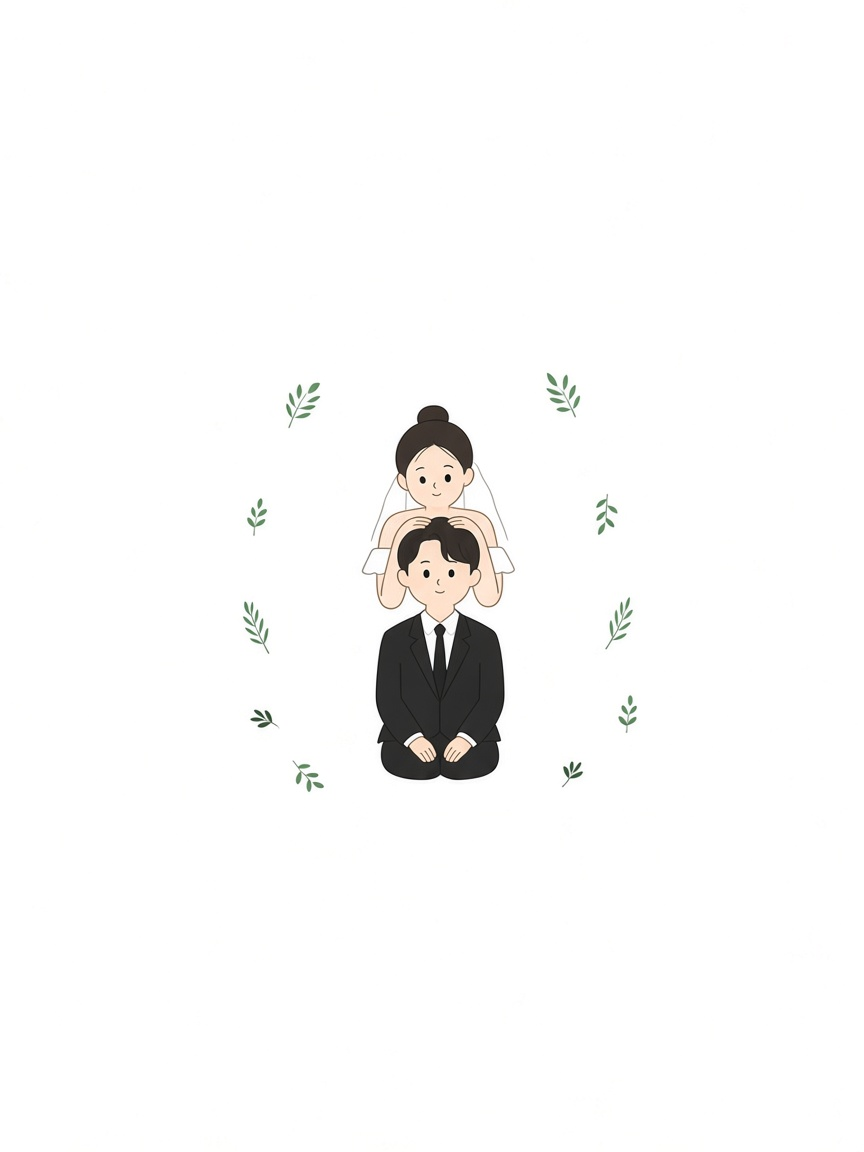
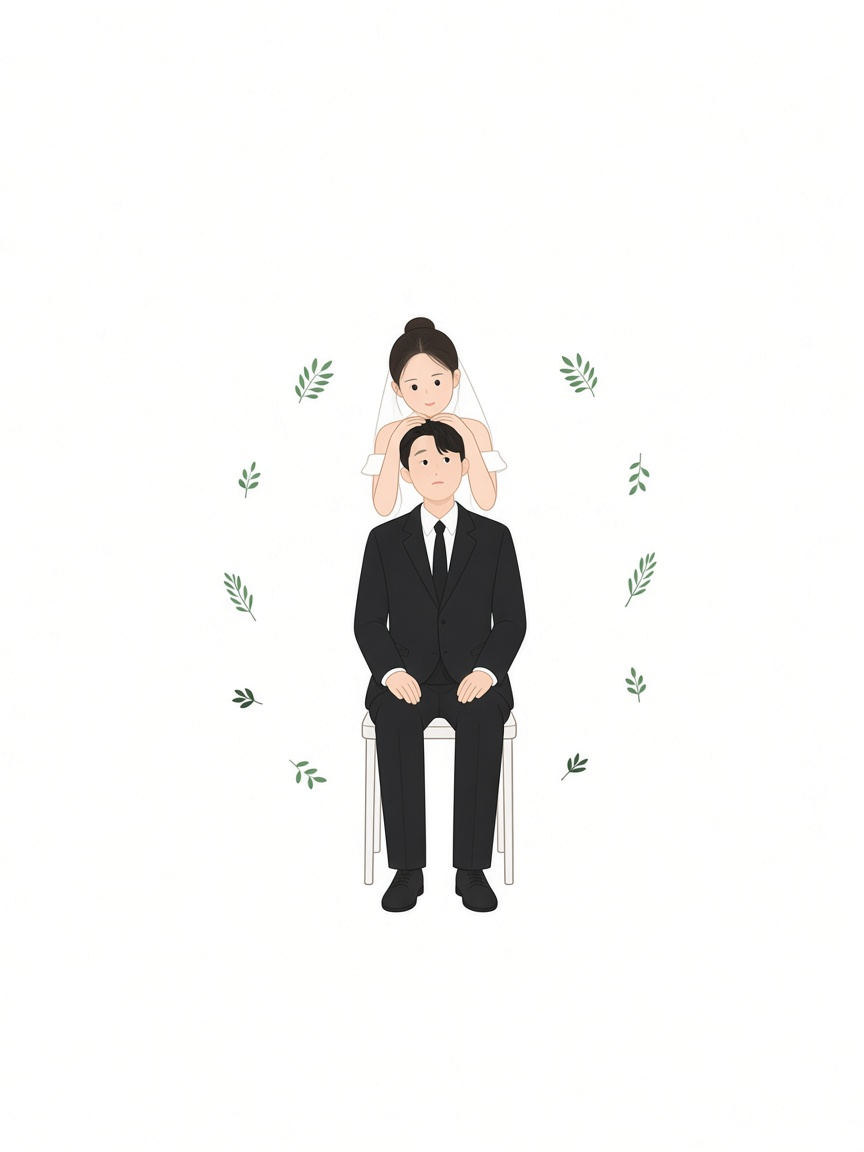
fix: sit groom on chair in head-hands drafts
Previous drafts read as kneeling. Match the studio photos.

diff --git a/history/2026-10-02_feat_illustration-drafts.md b/history/2026-10-02_feat_illustration-drafts.md
@@ -16,3 +16,7 @@
 - `public/illustrations/` 시안 5장
 - `public/illustrations/sources/` 원본·참고 이미지
 - `/drafts` 비교 페이지
+
+## 후속
+머리 위 구도에서 신랑이 무릎 앉은 형태로 나왔다.
+사진처럼 의자 앉은 포즈(다리·신발 보이게)로 두 장 다시 뽑았다.
